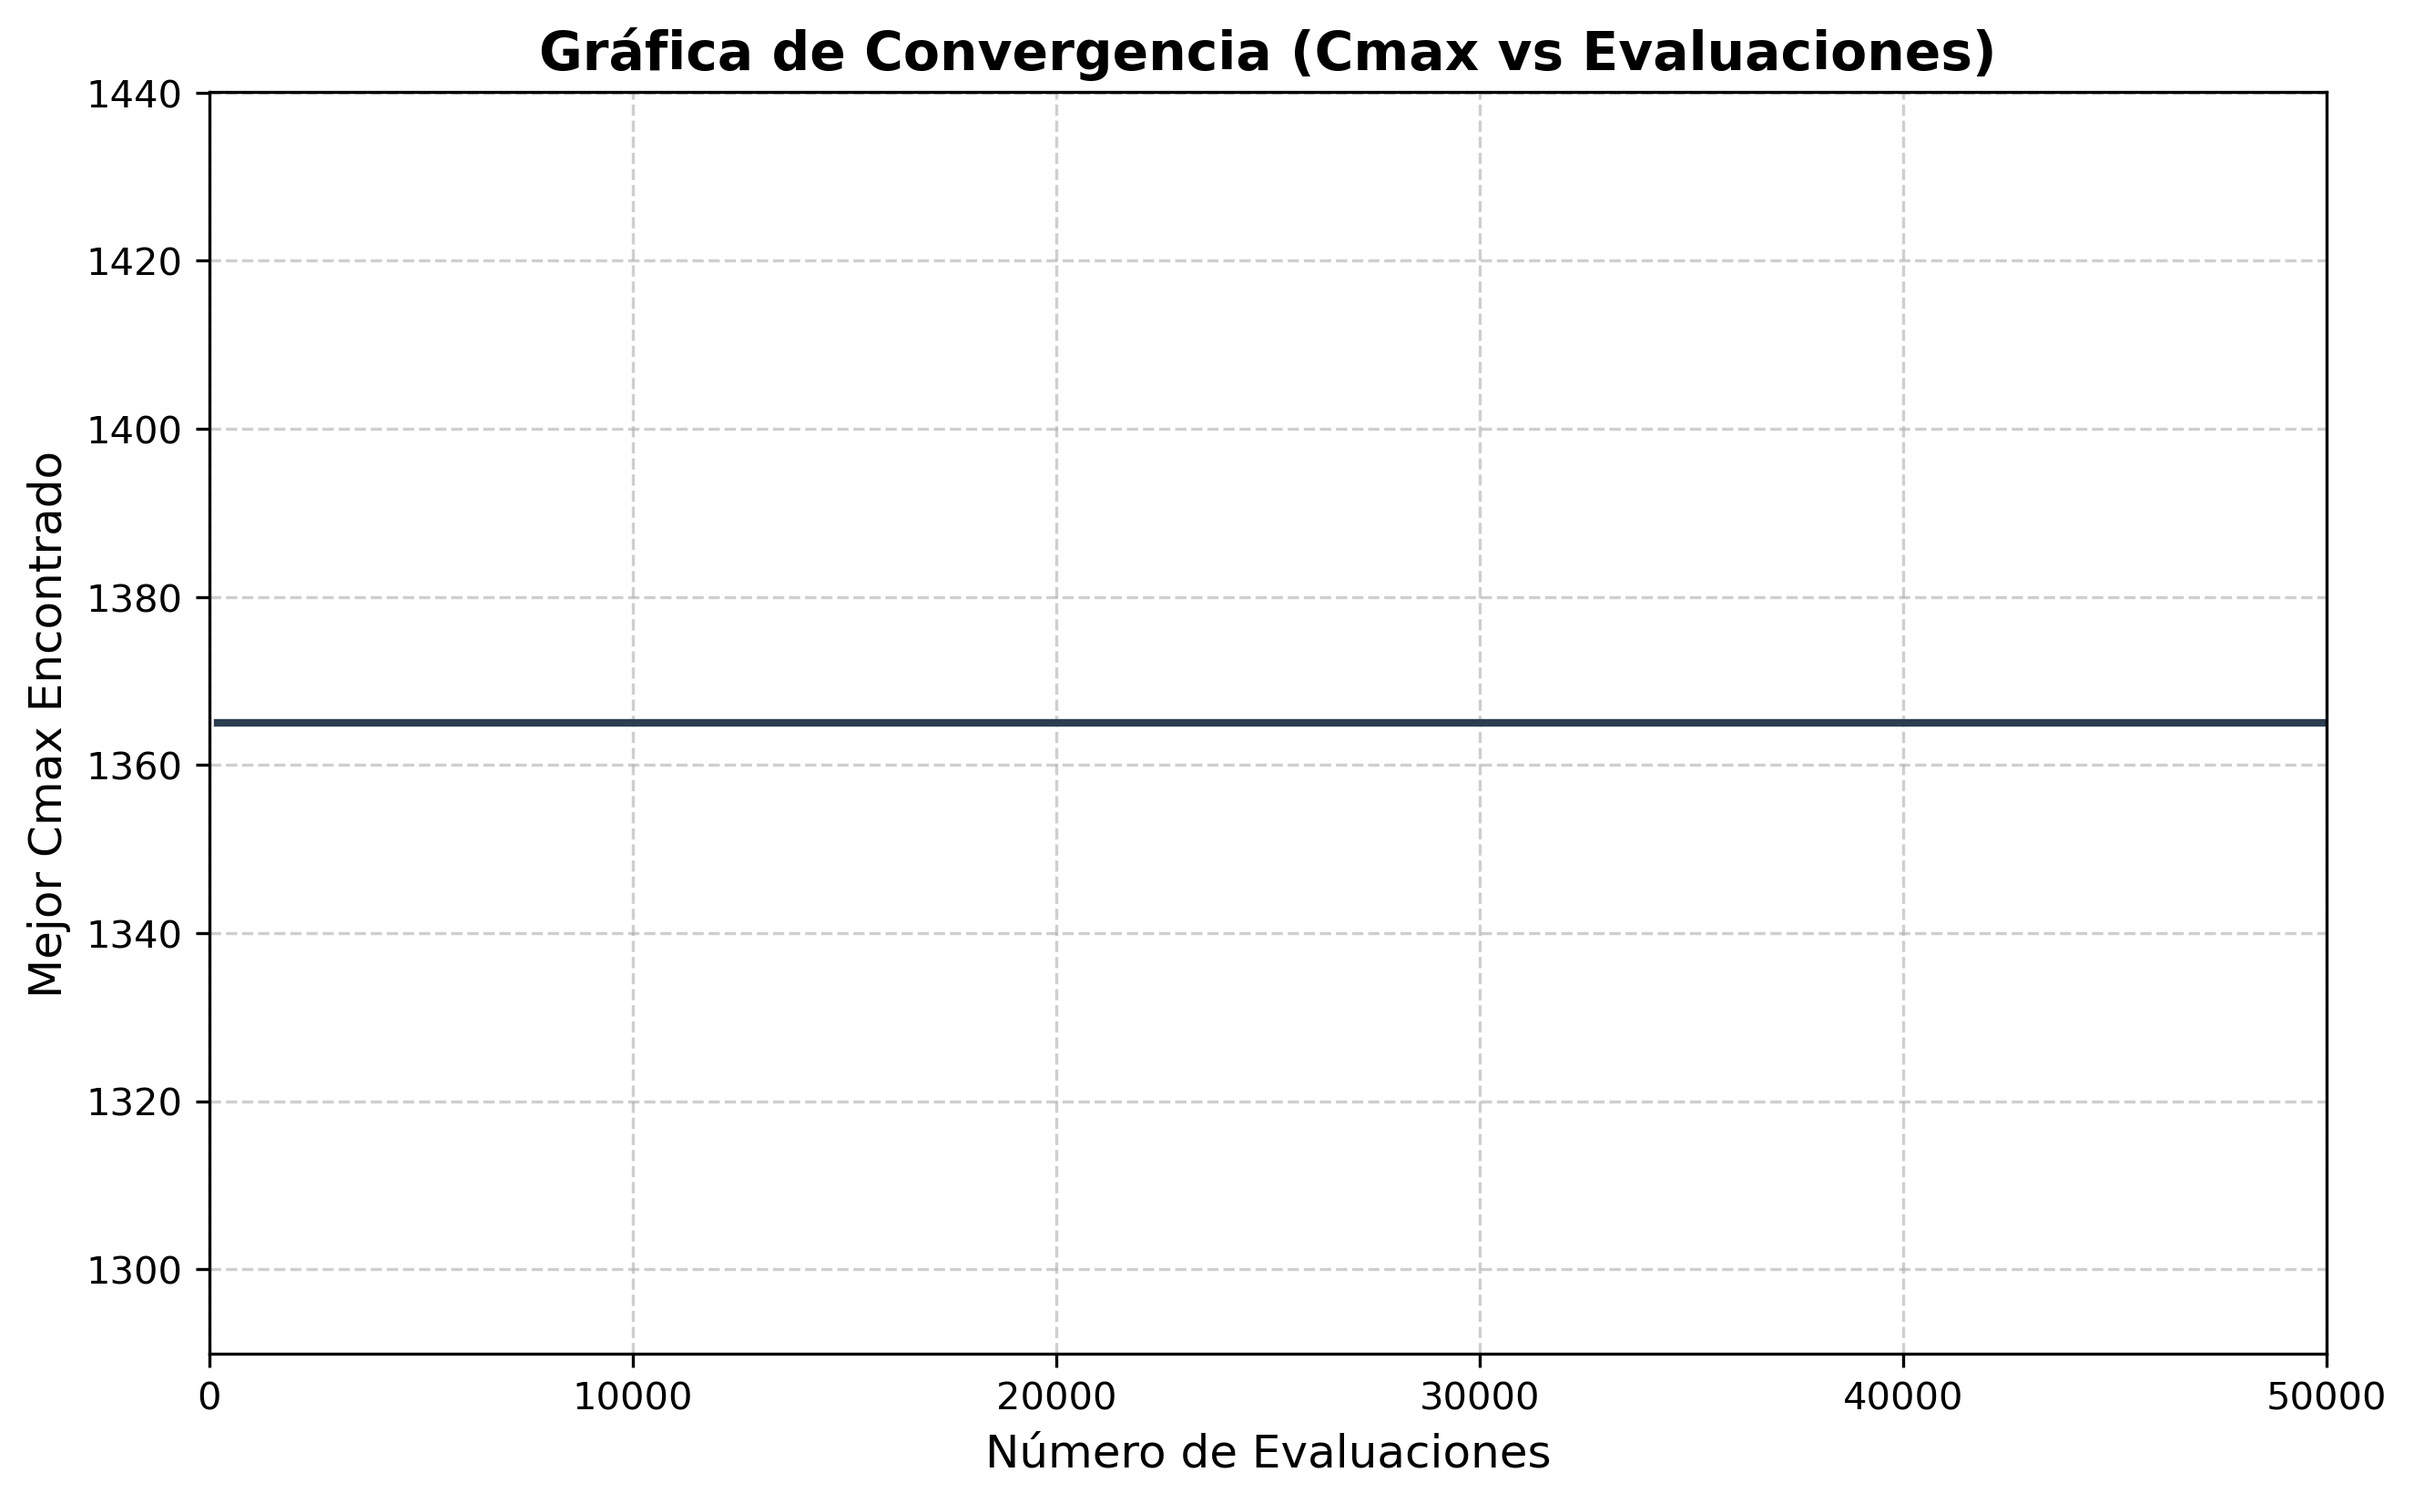
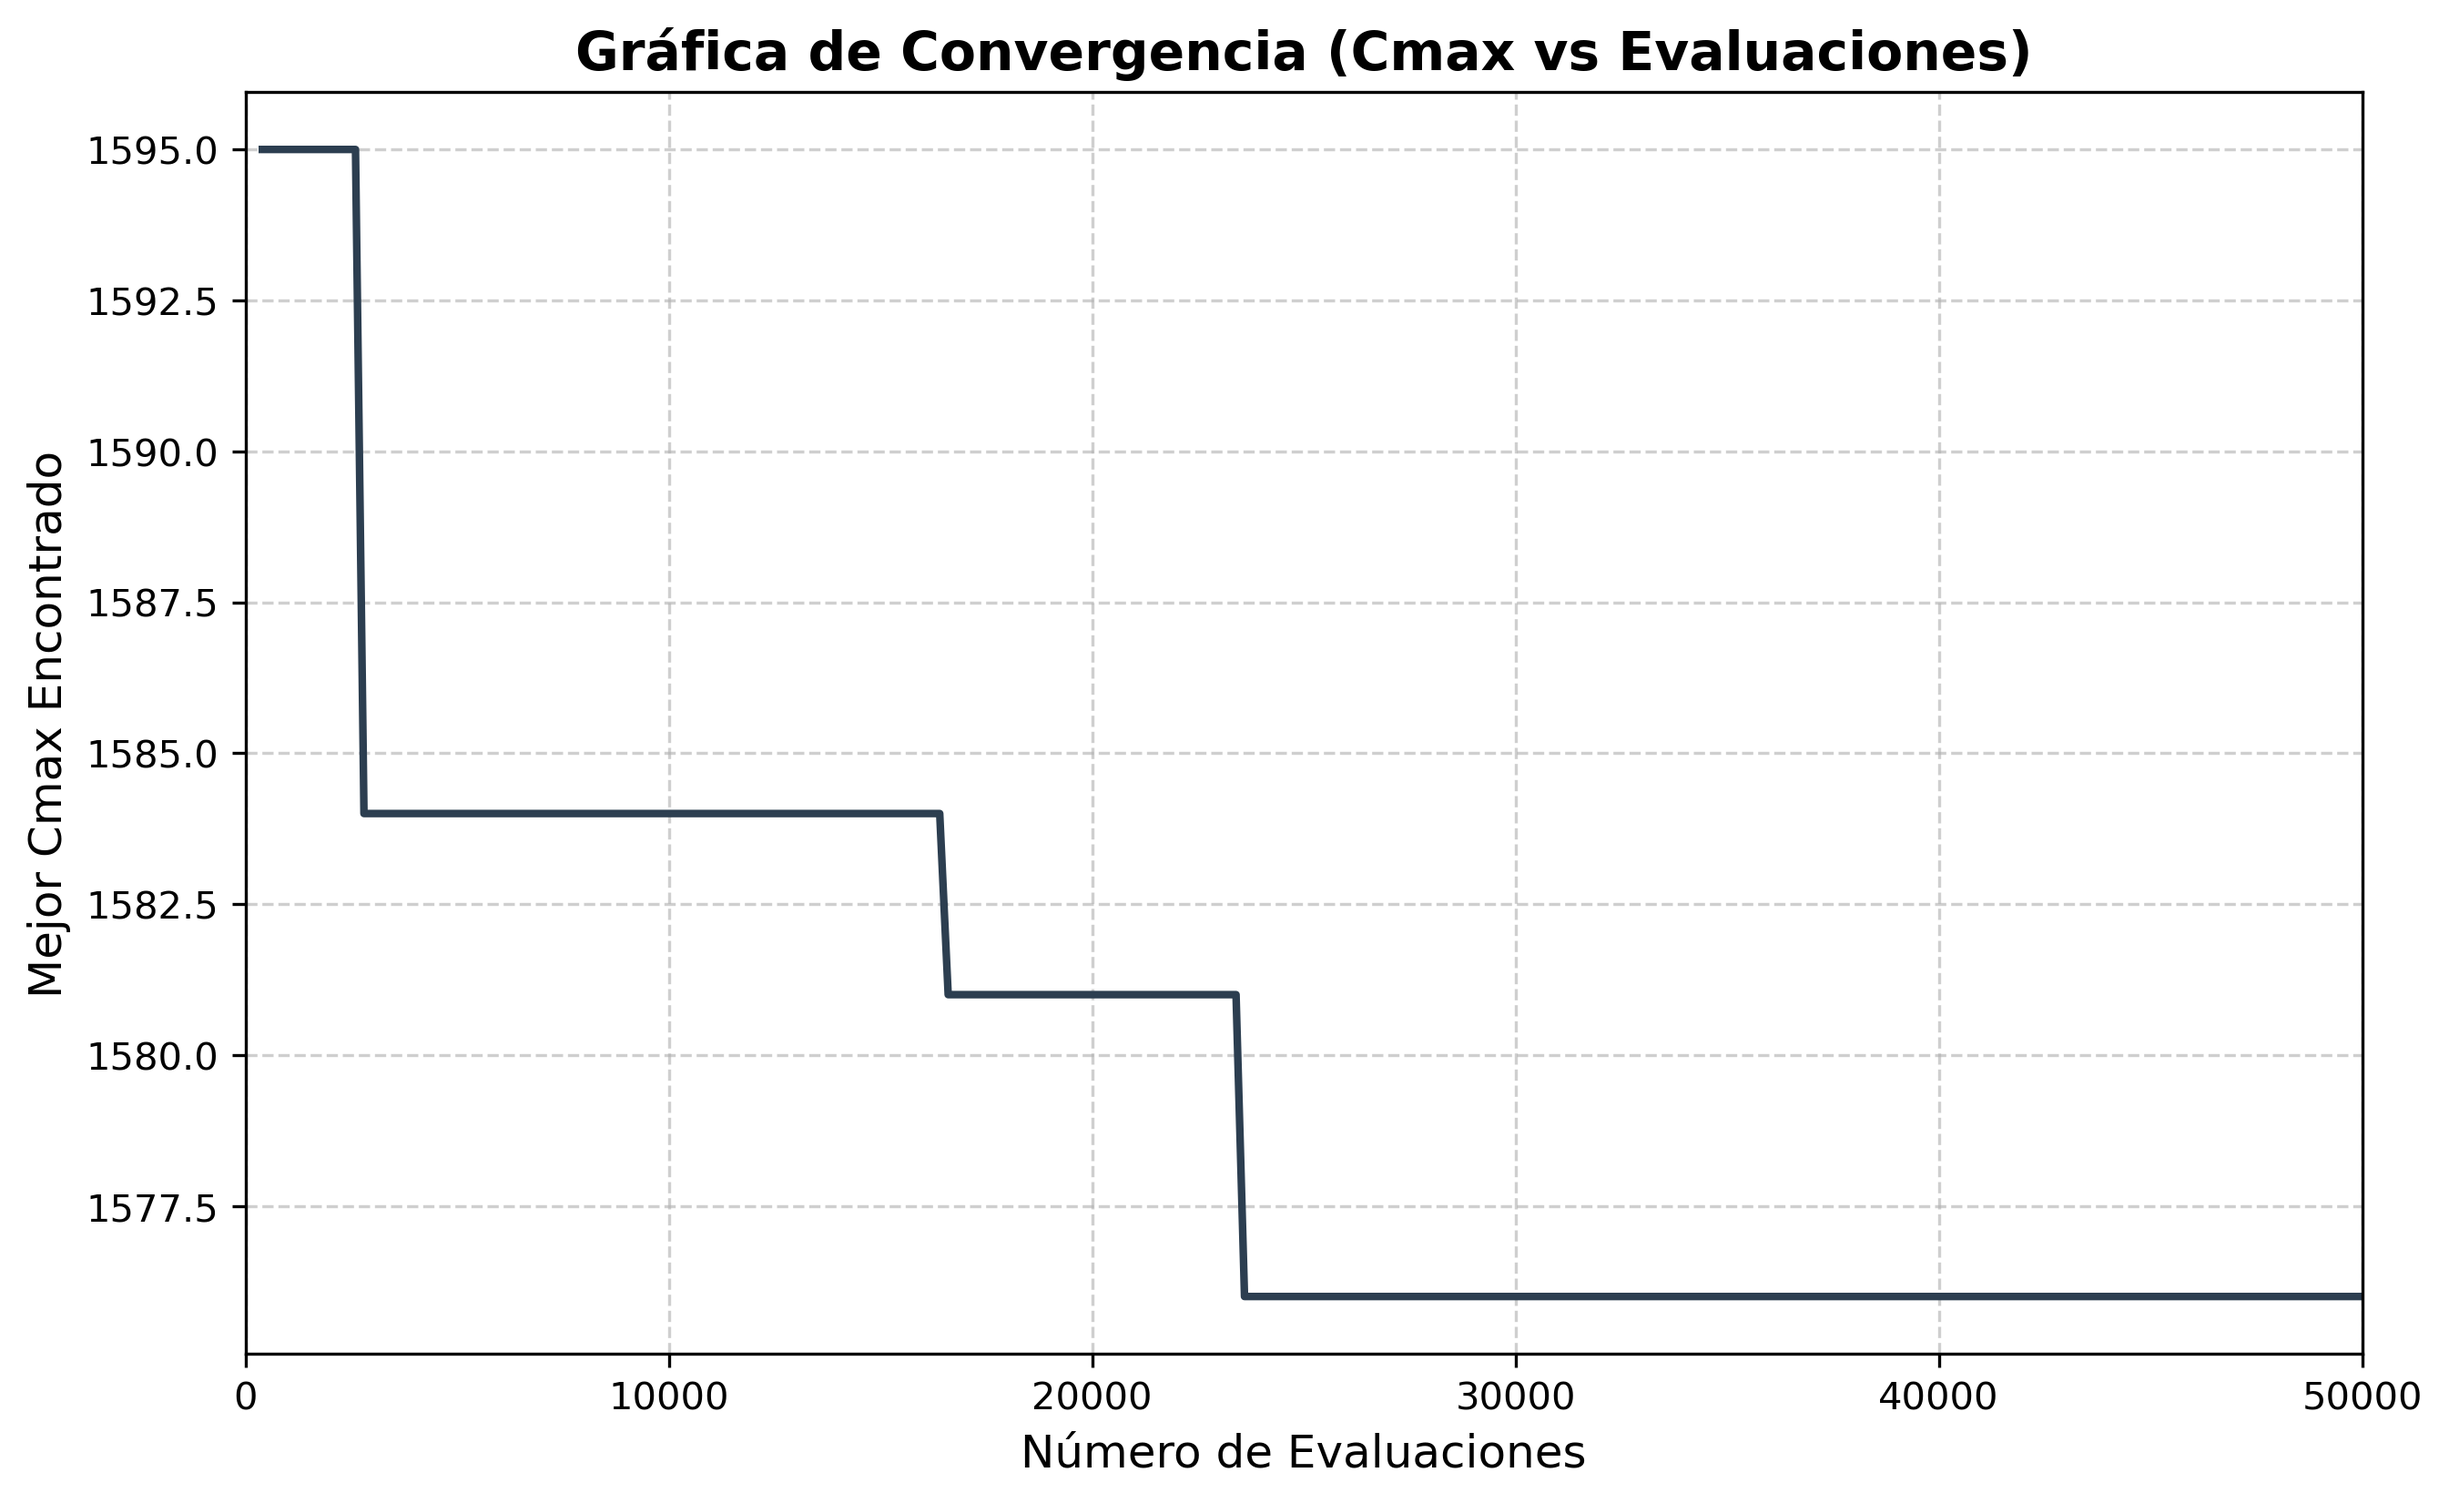
Practica 2: Modificacion viernes

diff --git a/prct02/Modificacion/src/main.cc b/prct02/Modificacion/src/main.cc
@@ -5,7 +5,7 @@
 #include <cmath>
 #include <chrono>
 
-#include "algoritmoGenetico.h"
+#include "../include/algoritmoGenetico.h"
 #include "AlgoritmosReferencia.h"
 #include "instancia_PFSP.h"
 #include "solucion.h"
@@ -24,6 +24,7 @@ struct Configuracion {
   int K_tam_torneo;
   double Pc_prob_cruce;
   double Pm_prob_mutacion;
+  int tipo_reemplazo;
 };
 
 /**
@@ -44,7 +45,7 @@ struct Configuracion {
  *       @c exit(1).
  */
 Configuracion CargarDatos(int argc, char* argv[]) {
-  if (argc != 7 && argc != 8) {
+  if (argc != 8 && argc != 9) {
     std::cout << "Error: Numero incorrecto de parámetros" << std::endl;
     std::cout << "Uso: programa.exe archivo N E K Pc Pm [semilla]" << std::endl;
     exit(1);
@@ -54,25 +55,24 @@ Configuracion CargarDatos(int argc, char* argv[]) {
   int K = std::stoi(argv[4]);
   double Pc = std::stod(argv[5]);
   double Pm = std::stod(argv[6]);
+  int tipo_reemplazo = std::stoi(argv[7]);
   std::ifstream Fichero(argv[1]);
   if (!Fichero){
     std::cout << "No se pudo abrir el fichero de lectura" << std::endl;
     exit(1);
   }
-  std::string linea_basura;
-  std::getline(Fichero, linea_basura); 
-  int n_trabajos, n_maquinas, semilla, upper_bound, lower_bound;
-  Fichero >> n_trabajos >> n_maquinas >> semilla >> upper_bound >> lower_bound;
-  std::getline(Fichero, linea_basura); // Este solo lee el final de la linea ('\n')
-  std::getline(Fichero, linea_basura); 
+  int n_trabajos, n_maquinas;
+  Fichero >> n_trabajos >> n_maquinas;
   std::vector<std::vector<int>> tiempo_procesado(n_maquinas, std::vector<int>(n_trabajos));
   for (int i{0}; i < n_maquinas; i++) {
     for (int j{0}; j < n_trabajos; j++) {
       Fichero >> tiempo_procesado[i][j];
     }
   }
+  int upper_bound = 0; // Fake upper_bound
+  int semilla = (argc == 9) ? std::stoi(argv[8]) : 1234; 
   InstanciaPFSP instancia(n_trabajos, n_maquinas, tiempo_procesado);
-  Configuracion config{instancia, upper_bound, (argc == 8 ? std::stoi(argv[7]) : semilla), N, E, K, Pc, Pm};
+  Configuracion config{instancia, upper_bound, (argc == 9 ? std::stoi(argv[8]) : semilla), N, E, K, Pc, Pm, tipo_reemplazo};
   Fichero.close();
   return config;
 }
@@ -109,7 +109,7 @@ int main(int argc, char* argv[]) {
     std::mt19937 gen(datos.semilla_base + i);
     bool hacer_grafica = (i == 0);
     AlgoritmoGenetico genetico(datos.instancia, gen, datos.N_tam_poblacion, datos.Pc_prob_cruce, datos.Pm_prob_mutacion, 
-                      datos.K_tam_torneo, datos.E_evaluaciones_max);
+                      datos.K_tam_torneo, datos.E_evaluaciones_max, datos.tipo_reemplazo);
     auto inicio = std::chrono::steady_clock::now();
     genetico.Ejecutar(hacer_grafica);
     tiempo_total += std::chrono::duration<double>(std::chrono::steady_clock::now() - inicio).count();
@@ -131,7 +131,7 @@ int main(int argc, char* argv[]) {
     sumatoria += pow(resultados_cmax[i] - promedio_cmax, 2);
   }
   double desviacion_estandar = sqrt(sumatoria / resultados_cmax.size());
-  double rpd_ub = (((double)BestCmax - datos.upper_bound) / (double)datos.upper_bound) * 100.0;
+  double rpd_ub = 0.0;
   double rpd_neh = ((BestCmax - (double)CmaxNEH.Get_Makespan()) / (double)CmaxNEH.Get_Makespan()) * 100;
   std::ofstream FicheroSalida("tabla_resultados.csv", std::ios::app);
   FicheroSalida << argv[1] << "," << datos.instancia.Get_NTareas() << "," << datos.instancia.Get_NMaquinas() << "," << BestCmax 

diff --git a/prct02/Modificacion/src/algoritmoGenetico.cc b/prct02/Modificacion/src/algoritmoGenetico.cc
@@ -1,4 +1,4 @@
-#include "algoritmoGenetico.h"
+#include "../include/algoritmoGenetico.h"
 
 #include <algorithm>
 #include <numeric>
@@ -182,7 +182,7 @@ void AlgoritmoGenetico::Reemplazo(std::vector<Solucion> lista) {
  *  -# Cruce OX con probabilidad @c prob_cruce_ (si no hay cruce, los hijos
  *     son copias de los padres).
  *  -# Mutación de ambos hijos.
- *  -# Reemplazo generacional con elitismo.
+ *  -# Reemplazo Modificacion con elitismo.
  *
  * @param guardar_convergencia Si es @c true, se escribe en el fichero
  *        @c convergencia.csv una línea por generación con el formato
@@ -221,7 +221,13 @@ void AlgoritmoGenetico::Ejecutar(bool guardar_convergencia) {
         nueva_generacion.emplace_back(hijo2);
       }
     }
-    Reemplazo(std::move(nueva_generacion));
+    // <-- NUEVO M5 -->
+    if (tipo_reemplazo_ == 0) {
+        Reemplazo(std::move(nueva_generacion));
+    } else {
+        ReemplazoModificacion(std::move(nueva_generacion));
+    }
+    // <-------------->
     if (guardar_convergencia) {
       fichero_grafica << n_evaluaciones_makespan_ << "," << GetSolucion().Get_Makespan() << "\n";
     }
@@ -229,4 +235,45 @@ void AlgoritmoGenetico::Ejecutar(bool guardar_convergencia) {
   if (guardar_convergencia) {
     fichero_grafica.close();
   }
+}
+
+void AlgoritmoGenetico::ReemplazoModificacion(std::vector<Solucion> lista) {
+  // Evaluar a los hijos si no lo están (para que todos tengan Cmax)
+  for (auto& elemento : lista) {
+    elemento.Evaluar(instancia_);
+    n_evaluaciones_makespan_++;
+    if (elemento < solucion_) solucion_ = elemento;
+  }
+  int N = tam_poblacion_;
+  // Juntar P (poblacion_) y P' (lista)
+  std::vector<Solucion> combinada = poblacion_;
+  combinada.insert(combinada.end(), lista.begin(), lista.end());
+  // Eliminar duplicados por secuencia
+  std::vector<Solucion> unicos;
+  std::vector<Solucion> duplicados;
+  for (const auto& sol : combinada) {
+    bool es_duplicado = false;
+    for (const auto& u : unicos) {
+      if (sol.Get_Permutacion() == u.Get_Permutacion()) {
+        es_duplicado = true;
+        break;
+      }
+    }
+    if (es_duplicado) duplicados.push_back(sol);
+    else unicos.push_back(sol);
+  }
+  // Quedarse con los N primeros
+  std::vector<Solucion> nueva_poblacion;
+  for (size_t i = 0; i < N && i < unicos.size(); ++i) {
+    nueva_poblacion.push_back(unicos[i]);
+  }
+  // Rellenar con duplicados si faltan
+  if (nueva_poblacion.size() < N) {
+    int faltantes = N - nueva_poblacion.size();
+    for (int i = 0; i < faltantes; ++i) {
+      nueva_poblacion.push_back(duplicados[i]);
+    }
+  }
+  // Guardar la nueva población
+  poblacion_ = std::move(nueva_poblacion);
 }

diff --git a/prct02/Modificacion/include/algoritmoGenetico.h b/prct02/Modificacion/include/algoritmoGenetico.h
@@ -10,10 +10,10 @@
 class AlgoritmoGenetico {
  public:
   AlgoritmoGenetico(const InstanciaPFSP& instancia, std::mt19937& gen, int tam_poblacion,
-                    double prob_cruce, double prob_mutacion, int tam_torneo, int presupuesto_max) :
+                    double prob_cruce, double prob_mutacion, int tam_torneo, int presupuesto_max, int tipo_reemplazo) :
                     instancia_(instancia), gen_(gen), tam_poblacion_(tam_poblacion), prob_cruce_(prob_cruce), 
                     prob_mutacion_(prob_mutacion), tam_torneo_(tam_torneo), presupuesto_max_(presupuesto_max), 
-                    n_evaluaciones_makespan_(0), solucion_() {}
+                    n_evaluaciones_makespan_(0), solucion_(), tipo_reemplazo_(tipo_reemplazo) {}
   Solucion GetSolucion() const { return solucion_; }
   void InicializarPoblacion();
   Solucion SeleccionTorneo();
@@ -21,6 +21,7 @@ class AlgoritmoGenetico {
   void Mutacion(Solucion& solucion);
   void Reemplazo(std::vector<Solucion> lista);
   void Ejecutar(bool guardar_convergencia = false);
+  void ReemplazoModificacion(std::vector<Solucion> lista); // <-- NUEVO M5 
  private:
   const InstanciaPFSP& instancia_;
   std::mt19937& gen_;
@@ -32,6 +33,7 @@ class AlgoritmoGenetico {
   int presupuesto_max_;
   int n_evaluaciones_makespan_;
   Solucion solucion_;
+  int tipo_reemplazo_; // <-- NUEVO M5 
 };
 
 #endif

diff --git a/prct02/Modificacion/README.md b/prct02/Modificacion/README.md
@@ -52,23 +52,24 @@ make clean
 ### Una instancia
 
 ```bash
-./aa.exe <instancia> <N> <E> <K> <Pc> <Pm> [semilla]
+./aa.exe <instancia> <N> <E> <K> <Pc> <Pm> <tipo_reemplazo> [semilla]
 ```
 
 | Parámetro   | Descripción                                                        |
-|-------------|--------------------------------------------------------------------|
-| `instancia` | Ruta al fichero `.fsp` de la instancia                             |
-| `N`         | Tamaño de la población                                             |
-| `E`         | Número máximo de evaluaciones (criterio de parada)                 |
-| `K`         | Tamaño del torneo (selección por torneo)                           |
-| `Pc`        | Probabilidad de cruce (0–1)                                        |
-| `Pm`        | Probabilidad de mutación (0–1)                                     |
-| `semilla`   | (Opcional) Semilla base. Si se omite, se usa la que trae la instancia |
+|------------------|--------------------------------------------------------------------|
+| `instancia`      | Ruta al fichero `.fsp` de la instancia                             |
+| `N`              | Tamaño de la población                                             |
+| `E`              | Número máximo de evaluaciones (criterio de parada)                 |
+| `K`              | Tamaño del torneo (selección por torneo)                           |
+| `Pc`             | Probabilidad de cruce (0–1)                                        |
+| `Pm`             | Probabilidad de mutación (0–1)                                     |
+| `tipo_reemplazo` | Probabilidad de mutación (0–1)                                     |
+| `semilla`        | (Opcional) Semilla base. Si se omite, se usa la que trae la instancia |
 
 Ejemplo (los parámetros usados en los experimentos):
 
 ```bash
-./aa.exe ./instancias/tai20_5_1.fsp 100 50000 2 0.8 0.1
+./aa.exe ./instancias/tai20_5_1.fsp 100 50000 2 0.8 0.1 1
 ```
 
 También se puede lanzar un ejemplo directamente con:
@@ -77,7 +78,7 @@ También se puede lanzar un ejemplo directamente con:
 make run
 ```
 
-que equivale a ejecutar `tai20_5_0.fsp` con `N=100, E=50000, K=2, Pc=0.8, Pm=0.1`.
+que equivale a ejecutar `tai20_5_0.fsp` con `N=100, E=50000, K=2, Pc=0.8, Pm=0.1, tipo_reemplazo=1`.
 
 ### Todas las instancias (por lotes)
 
